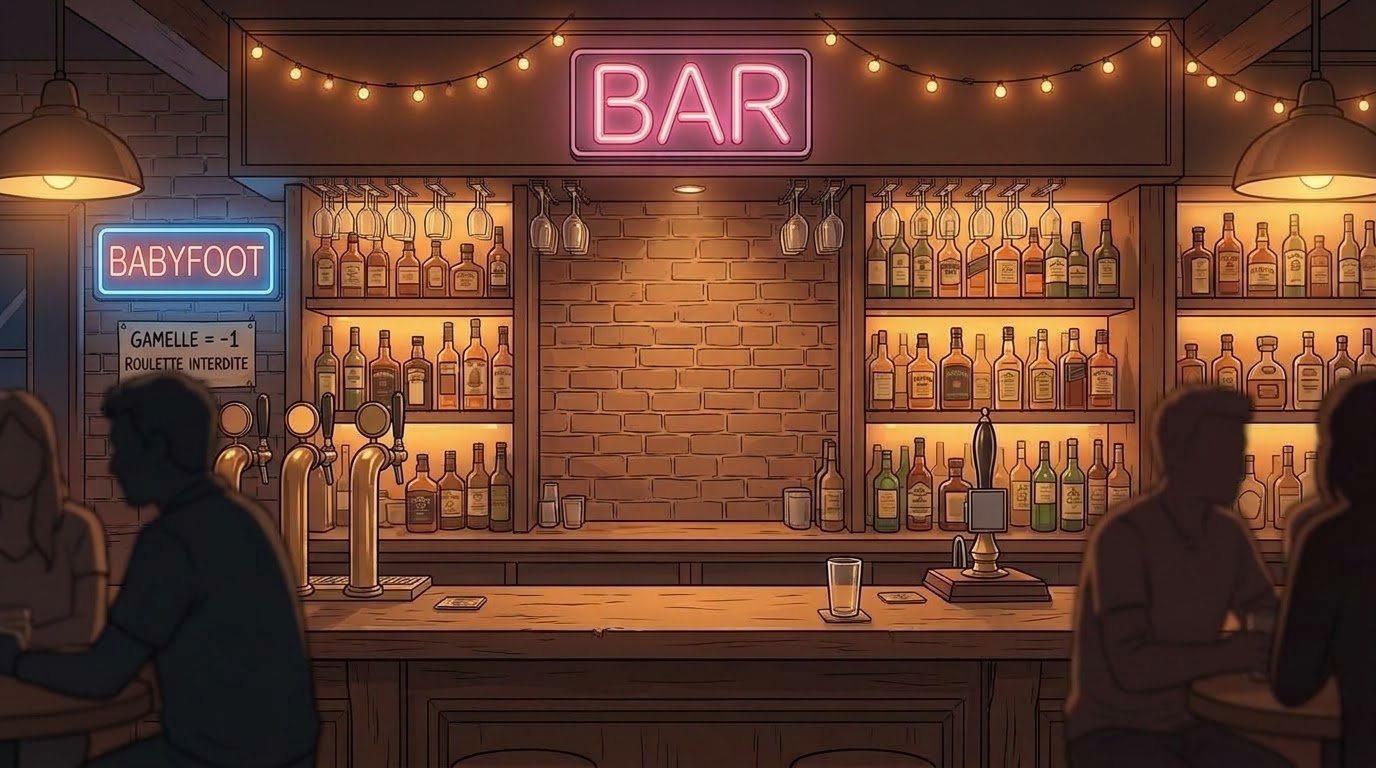
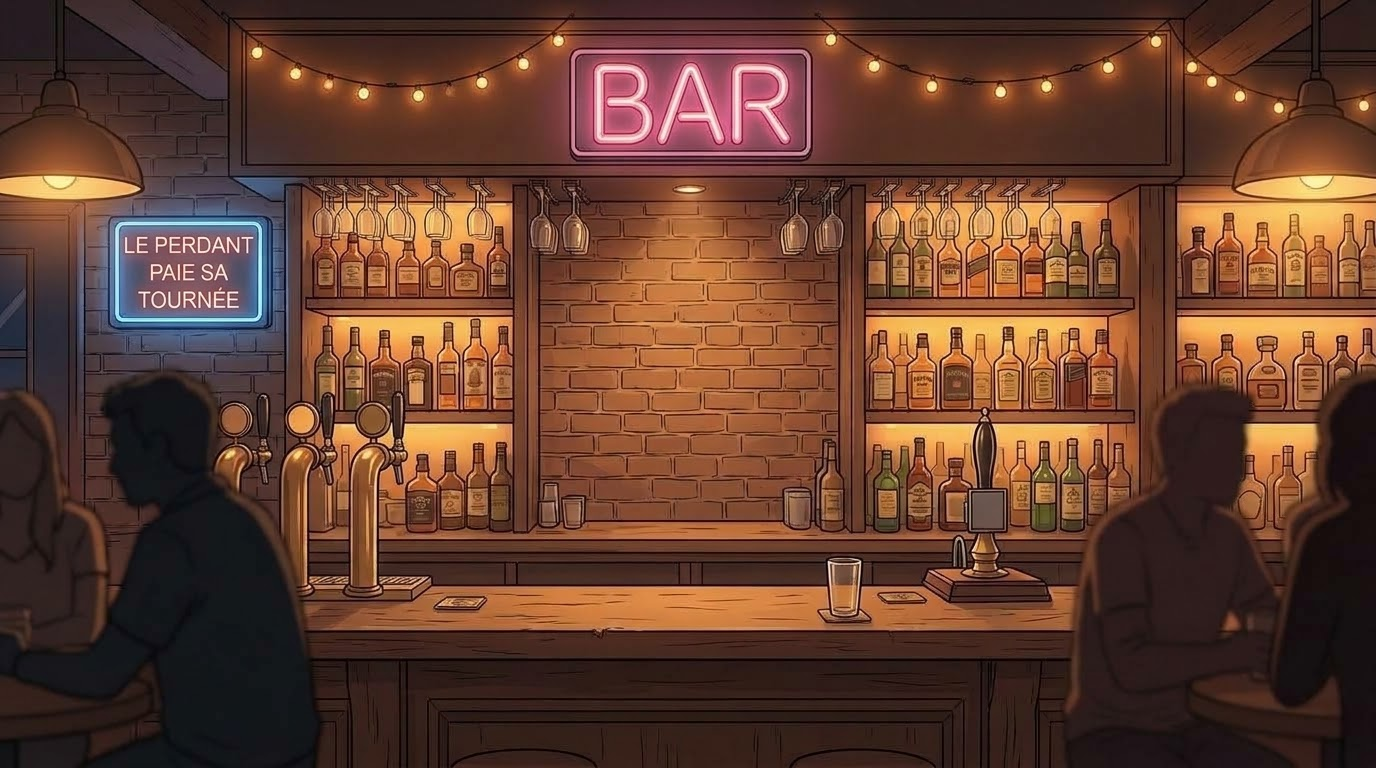
Rémi : poses « l'air de rien » à la porte, nouveau fond du babyfoot (le perdant paie sa tournée)
Claude-Session: https://claude.ai/code/session_01Nh56uCfCYFQpr6HwXFtrQ7

Changed region(s): [[0.0625, 0.2812, 0.2188, 0.5312]]

diff --git a/src/bosses/remi/RemiPorte.js b/src/bosses/remi/RemiPorte.js
@@ -250,8 +250,11 @@ export class RemiPorte extends BossScene {
   faireGenre(qui) {
     this.charge = false; this.poingCache = true; this.pose[qui] = 'garde';
     this.puissance *= R.cacheGarde;   // V19y : cacher son poing coûte (on ne garde que R.cacheGarde de la charge)
-    if (qui === 'toi') bulle(this, choisir(['*sifflote*', '*regarde ses chaussures*', '*se recoiffe*', '*fait genre de rien*']), '#cccccc', 0.9, 330);
-    else bulle(this, 'Rémi : *sifflote innocemment*', '#ffd84a', 0.9, 80);
+    // V20e : une des 2 poses « l'air de rien » (images), la bulle va avec
+    this.poseRien = Math.random() < 0.5 ? 0 : 1;
+    const geste = this.poseRien === 0 ? '*sifflote*' : '*se gratte la nuque*';
+    if (qui === 'toi') bulle(this, geste, '#cccccc', 0.9, 330);
+    else bulle(this, `Rémi : ${geste}`, '#ffd84a', 0.9, 80);
   }
 
   // ---------- le videur ----------
@@ -573,7 +576,11 @@ export class RemiPorte extends BossScene {
       const x = IMPACT.x - c.poing * c.echelle - 400 * this.entree * this.entree - ch * 40;
       // au moment du coup : il plonge vers la porte (élan) et grossit un peu (il se rapproche de nous)
       const pl = pose === 'frappe' ? Math.min(1, this.elan / 0.18) : 0;
-      spr.setFrame(c.cases[pose] ?? 0).setPosition(x + bal + pl * 30, c.haut + ch * 10 - pl * 8).setRotation(-0.08 * ch + pl * 0.05)
+      // V20e : poing caché = la pose « l'air de rien » (si les images sont là)
+      const rien = this.poingCache && this.textures.exists(c.tex + '_rien');
+      if (rien) spr.setTexture(c.tex + '_rien', this.poseRien || 0); else if (spr.texture.key !== c.tex) spr.setTexture(c.tex, 0);
+      if (!rien) spr.setFrame(c.cases[pose] ?? 0);
+      spr.setPosition(x + bal + pl * 30, c.haut + ch * 10 - pl * 8).setRotation(-0.08 * ch + pl * 0.05)
         .setScale(c.echelle * (1 + pl * 0.06));
     }
   }

diff --git a/src/bosses/remi/manifeste.js b/src/bosses/remi/manifeste.js
@@ -21,6 +21,9 @@ export const MANIFESTE = {
     remi_porte_decor: { fichier: 'sprites/remi/remi_porte_decor.jpg', largeur: 960, hauteur: 536, images: 1, vitesse: 1 },
     // la porte VUE DE DOS : Rémi (garde, coup, impact) et toi (garde, élan, coup, impact), cases alignées à gauche
     remi_dos: { fichier: 'sprites/remi/remi_dos.png', largeur: 344, hauteur: 535, images: 3, vitesse: 1 },
+    // V20e : « l'air de rien » (sifflote, se gratte la nuque), mêmes cases que remi_dos / remi_toi_dos (air_de_rien())
+    remi_dos_rien: { fichier: 'sprites/remi/remi_dos_rien.png', largeur: 344, hauteur: 535, images: 2, vitesse: 1 },
+    remi_toi_dos_rien: { fichier: 'sprites/remi/remi_toi_dos_rien.png', largeur: 335, hauteur: 557, images: 2, vitesse: 1 },
     remi_toi_dos: { fichier: 'sprites/remi/remi_toi_dos.png', largeur: 335, hauteur: 557, images: 3, vitesse: 1 },
     // V7 : décors et objets du vélo(outils/remi/preparer_images.py)
     remi_rue2: { fichier: 'sprites/remi/remi_rue2.jpg', largeur: 1702, hauteur: 575, images: 1, vitesse: 1 },   // les quais

diff --git a/outils/remi/preparer_images.py b/outils/remi/preparer_images.py
@@ -388,6 +388,51 @@ def videur_mefiant():
     for k, x in enumerate(poses): bande.paste(x, (k * W + (W - x.size[0]) // 2, H - x.size[1]), x)
     bande.save(DST + 'remi_videur_mefiant.png'); print('remi_videur_mefiant.png', W, H, [x.size for x in poses])
 
+def air_de_rien():
+    # V20e : planche « l'air de rien » (2 x 2 : Rémi en haut, toi en bas ; 1 sifflote, 2 se gratte la nuque) -> deux bandes
+    # remi_dos_rien.png / remi_toi_dos_rien.png aux MÊMES dimensions de case que remi_dos / remi_toi_dos, chaque pose mise
+    # à la hauteur et à la place (bas, milieu) du personnage en garde (case 0), pour qu'il ne saute pas en changeant de pose
+    src = Image.open(SRC + 'remi_air_de_rien_planche.jpg').convert('RGB')
+    W, H = src.size
+    for ligne, (nom, ref) in enumerate((('remi_dos_rien', 'remi_dos'), ('remi_toi_dos_rien', 'remi_toi_dos'))):
+        bande_ref = Image.open(DST + ref + '.png')
+        cw = bande_ref.size[0] // 3; ch = bande_ref.size[1]
+        garde = bande_ref.crop((0, 0, cw, ch)); gb = garde.getbbox()
+        sortie = Image.new('RGBA', (cw * 2, ch), (0, 0, 0, 0))
+        for col in range(2):
+            p = detourer(src.crop((col * W // 2, ligne * H // 2, (col + 1) * W // 2, (ligne + 1) * H // 2)), grand=1500)
+            a = np.asarray(p).copy(); al = a[:, :, 3] > 40
+            lab, n = ndimage.label(ndimage.binary_dilation(al, iterations=2))
+            t = ndimage.sum(np.ones_like(lab), lab, range(1, n + 1))
+            grand = int(np.argmax(t)) + 1
+            # le corps + les NOTES de musique (petits morceaux dans le haut, près de la tête) ; pas les miettes ailleurs
+            ys = ndimage.center_of_mass(np.ones_like(lab), lab, range(1, n + 1)); cyc = np.nonzero(lab == grand)[0]
+            haut = cyc.min() + 0.3 * (cyc.max() - cyc.min())
+            garde_ids = [grand] + [i + 1 for i in range(n) if i + 1 != grand and t[i] > 300 and ys[i][0] < haut]
+            a[:, :, 3] = np.where(np.isin(lab, garde_ids), a[:, :, 3], 0)
+            corps = np.where(lab == grand)
+            q = Image.fromarray(a, 'RGBA')
+            cy0, cy1 = corps[0].min(), corps[0].max()
+            # échelle réelle : de la tête à mi-cuisse ≈ 62 % de la hauteur du personnage en pied (case de garde)
+            k = (gb[3] - gb[1]) * 0.62 / (cy1 - cy0)
+            q = q.resize((round(q.size[0] * k), round(q.size[1] * k)), Image.LANCZOS)
+            coupe = round(gb[1] + (cy1 - cy0) * k)        # où la pose s'arrête (mi-cuisse), dans la case
+            # les hanches : milieu des pixels pleins juste au-dessus de la coupe, dans la garde et dans la pose
+            def milieu(img, y):
+                r = np.nonzero(np.asarray(img)[max(0, y - 6):y, :, 3].max(axis=0) > 100)[0]
+                return (r.min() + r.max()) / 2 if len(r) else img.size[0] / 2
+            hq = milieu(q, round(cy1 * k)); hg = milieu(garde, coupe)
+            case = Image.new('RGBA', (cw, ch), (0, 0, 0, 0))
+            # les JAMBES de la garde sous la coupe (même jean) : pas de trou au-dessus du bas de l'écran
+            x0j, x1j = max(0, round(hg - 95)), min(cw, round(hg + 95))   # seulement autour des hanches (pas un bout de bras)
+            case.paste(garde.crop((x0j, coupe - 8, x1j, ch)), (x0j, coupe - 8))
+            couche = Image.new('RGBA', (cw, ch), (0, 0, 0, 0)); couche.paste(q, (round(hg - hq), round(gb[1] - cy0 * k)), q)
+            case.alpha_composite(couche)
+            sortie.paste(case, (col * cw, 0), case)
+        sortie.save(DST + nom + '.png'); print(nom + '.png', cw, ch)
+    fond = Image.open(SRC + 'remi_bar_babyfoot.jpg').convert('RGB')
+    fond.resize((960, round(fond.size[1] * 960 / fond.size[0])), Image.LANCZOS).save(DST + 'remi_bar_babyfoot.jpg', quality=88)
+
 planche_velo()
 presentation()
 planche_porte()
@@ -404,3 +449,4 @@ decor_porte()
 planche_baby()
 figurines_baby()
 videur_mefiant()
+air_de_rien()

diff --git a/propositions/remi_prompts_images.md b/propositions/remi_prompts_images.md
@@ -231,7 +231,7 @@ tendus, et ces deux doigts DÉSIGNENT SES DEUX YEUX : l'index pointe vers son œ
 (le bout de chaque doigt juste sous l'œil, sans le toucher), les autres doigts repliés. Fond transparent, 1 seule pose, même taille que l'image jointe.
 ```
 
-## 28. « L'air de rien » à la porte (Rémi et toi, de dos) — `remi_air_de_rien_planche.jpg` (À FAIRE)
+## 28. « L'air de rien » à la porte (Rémi et toi, de dos) — `remi_air_de_rien_planche.jpg` ✅ REÇUE ET INTÉGRÉE (V20e)
 À joindre : **`remi_coups_planche.jpg`** (mêmes personnages, même cadrage que les coups dans la porte).
 ```
 Même style et mêmes personnages que l'image jointe (manga/anime, contours noirs nets), fond BLANC uni, aucun texte.
@@ -243,7 +243,7 @@ Ligne du haut : le personnage barbu à casquette ; ligne du bas : le jeune homme
 sur le côté, petit sourire gêné.
 ```
 
-## 29. (facultatif) L'affiche du bar, à jour — `remi_bar_babyfoot.jpg` (nouvelle version)
+## 29. (facultatif) L'affiche du bar, à jour — `remi_bar_babyfoot.jpg` (nouvelle version) ✅ REÇUE ET INTÉGRÉE (le néon dit « LE PERDANT PAIE SA TOURNÉE »)
 À joindre : **`remi_bar_babyfoot.jpg`** (l'actuel). L'affiche « GAMELLE = -1 / ROULETTE INTERDITE » annonce des règles retirées (V19z).
 ```
 Reprends exactement l'image jointe (même bar, même style, même cadrage, même néon BABYFOOT). Change seulement le texte

diff --git a/NOTES.md b/NOTES.md
@@ -446,6 +446,11 @@
   (`videurSurRemi` 0,5) ; à chaque passage Rémi décide (`remiDecision`) : PRUDENT (`remiPrudent` de la difficulté) ou
   GOURMAND : il insiste et vise plus fort (`remiInsiste` +0,25, bulle « Il me voit pas, lui... »). Bot humain : Rémi
   attrapé 2 / 2 / 2 / 1 fois (PANACHÉ, PRESSION x2, CUL SEC).
+- V20e IMAGES : « L'AIR DE RIEN » (`remi_air_de_rien_planche.jpg`, prompt 28) → `remi_dos_rien.png` / `remi_toi_dos_rien.png`
+  (`air_de_rien()` dans preparer_images.py : mêmes cases que remi_dos / remi_toi_dos ; pose coupée à mi-cuisse mise à
+  l'échelle réelle, tête à la place de la garde, JAMBES de la garde recollées dessous) ; poing caché = une des 2 poses
+  (sifflote / se gratte la nuque, `poseRien`), bulle assortie. Nouveau fond du babyfoot `remi_bar_babyfoot.jpg` (prompt 29 :
+  le néon dit « LE PERDANT PAIE SA TOURNÉE », plus d'affiche gamelle / roulette).
 - RESTE : faire jouer Fabien et équilibrer ; autres images (prompts prêts : `propositions/remi_prompts_images.md`) ; vrais sons ;
   musique ; textes perso (passe de FINITION).
 
